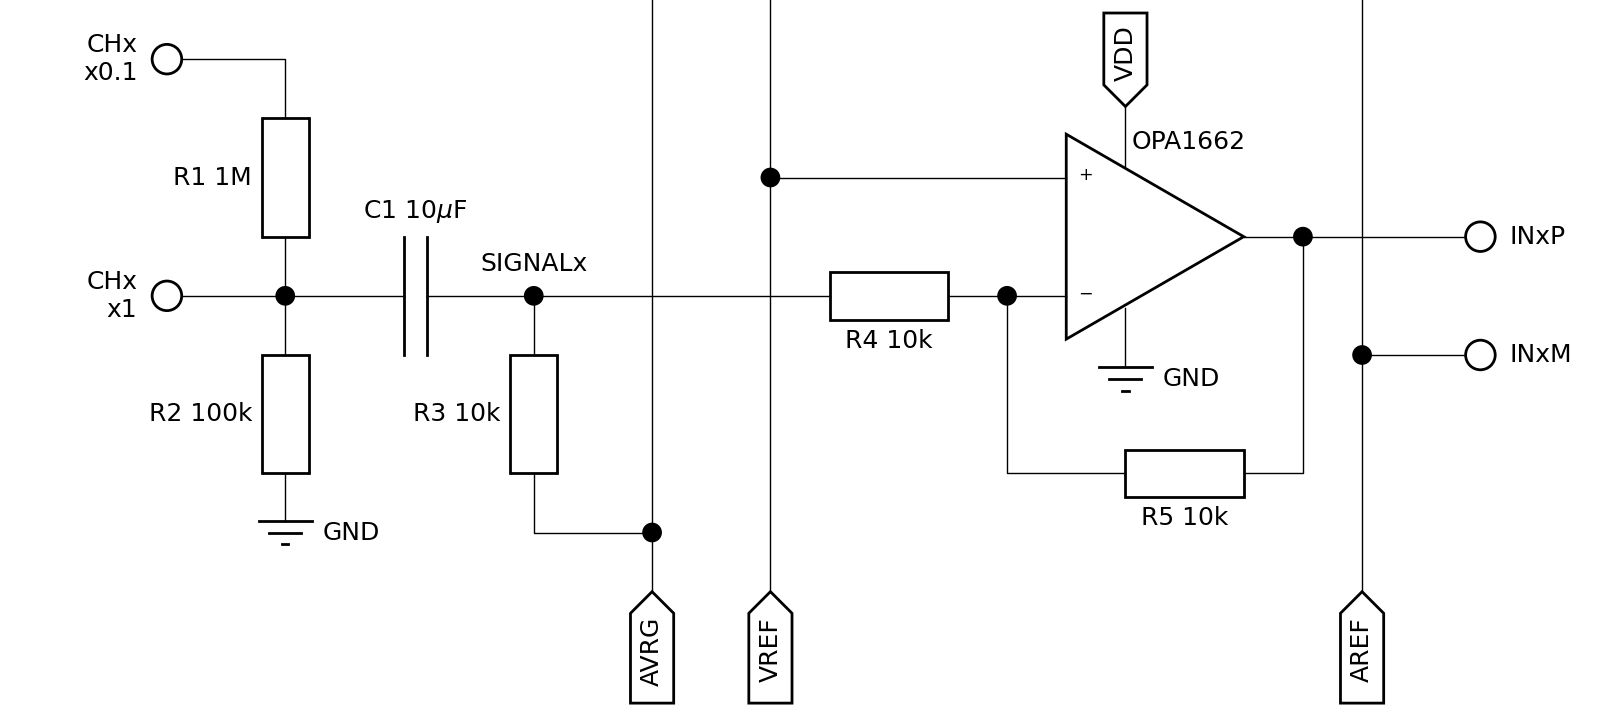
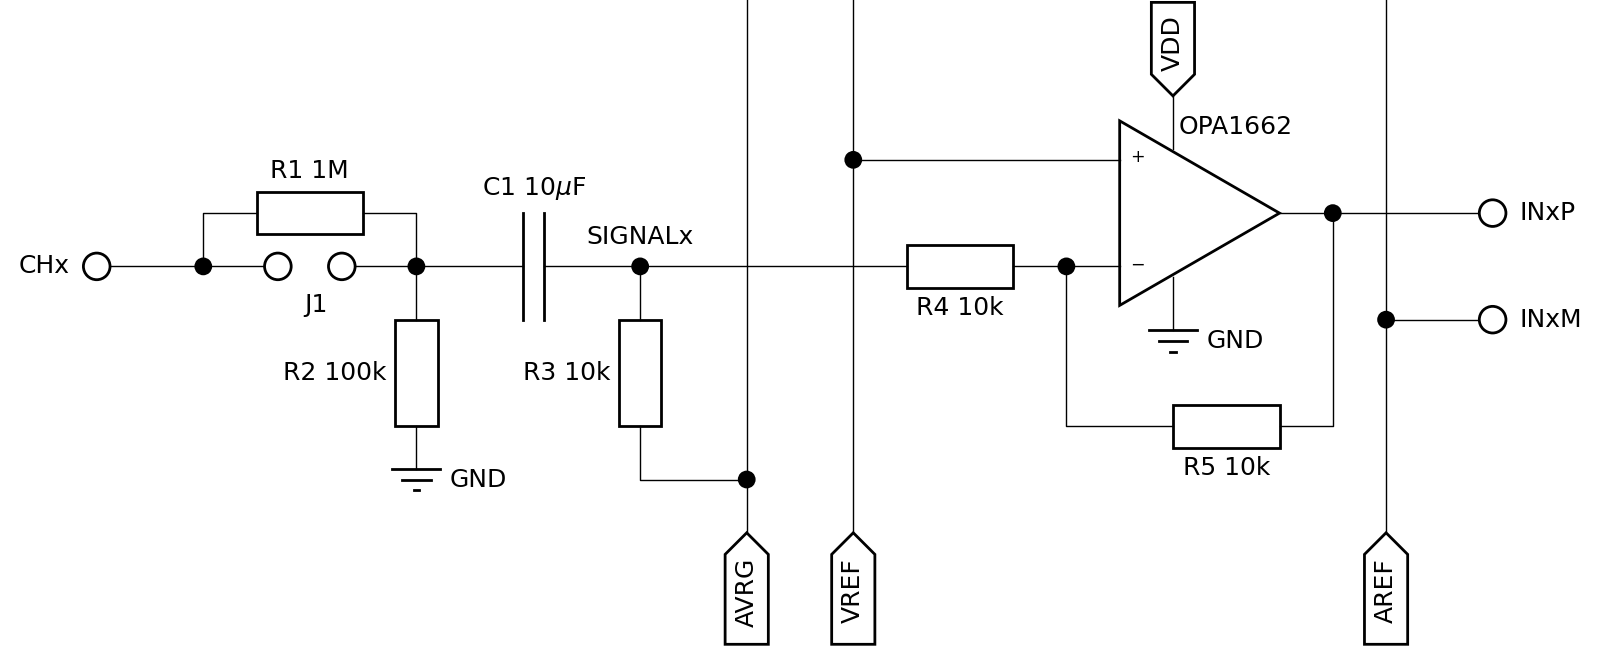
[R5.0] jumper for voltage divider

diff --git a/R5.0/preampinv.py b/R5.0/preampinv.py
@@ -4,14 +4,14 @@ from matplotlib.patches import Rectangle
 
 plt.rcParams['font.size'] = 18
 
-fig, ax = plt.subplots(figsize=(16, 7.1))
+fig, ax = plt.subplots(figsize=(16, 6.5))
 fig.subplots_adjust(nomargins=True)
 ax.show_spines('')
 #ax.set_xticks_off()
 #ax.set_yticks_off()
 
-ax.set_xlim(-1.5, 12)
-ax.set_ylim(1, 7)
+ax.set_xlim(-3, 12)
+ax.set_ylim(0.9, 7)
 ax.set_aspect('equal')
 
 pn, pp, po, pg, pw = ax.opamp_l((8, 5), 'OPA1662')
@@ -25,12 +25,14 @@ r4l, r4r = ax.resistance_h(ng1.left(1), 'R4 10k', align='bottom')
 ngr = ax.node(r4l.left(2.5), 'SIGNALx', 'north')
 c1l, c1r = ax.capacitance_h(ngr.left(1), 'C1 10$\\mu$F', align='top')
 nsc = ax.node(c1l.left(1))
-ns1 = ax.pin(nsc.left(1), 'CHx\nx1', align='left')
-ax.connect((ns1, nsc, c1l, None, c1r, r4l, None, r4r, ng1, pn))
+nj1 = ax.pin(nsc.left(0.7))
+nj2 = ax.pin(nj1.left(0.6), 'J1', 'southeast')
+nsj = ax.node(nj2.left(0.7))
+ns = ax.pin(nsj.left(1), 'CHx', align='left')
+ax.connect((ns, nsj, nj2, None, nj1, nsc, c1l, None, c1r, r4l, None, r4r, ng1, pn))
 
-r1b, r1t = ax.resistance_v(nsc.up(1), 'R1 1M', align='left')
-ns2 = ax.pin(r1t.up(0.5).left(1), 'CHx\nx0.1', align='left')
-ax.connect((nsc, r1b, None, r1t, ns2))
+r1l, r1r = ax.resistance_h(nsc.up(0.5).left(1), 'R1 1M', align='top')
+ax.connect((nsc, r1r, None, r1l, nsj))
 
 r3b, r3t = ax.resistance_v(ngr.down(1), 'R3 10k', align='left')
 nrc = ax.node(r3b.down(0.5).right(1))

diff --git a/R5.0/refampinv.py b/R5.0/refampinv.py
@@ -4,14 +4,14 @@ from matplotlib.patches import Rectangle
 
 plt.rcParams['font.size'] = 18
 
-fig, ax = plt.subplots(figsize=(16, 6))
+fig, ax = plt.subplots(figsize=(16, 5.6))
 fig.subplots_adjust(nomargins=True)
 ax.show_spines('')
 #ax.set_xticks_off()
 #ax.set_yticks_off()
 
-ax.set_xlim(-1.5, 12)
-ax.set_ylim(2.5, 7.5)
+ax.set_xlim(-3, 12)
+ax.set_ylim(2.4, 7.6)
 ax.set_aspect('equal')
 
 pn, pp, po, pg, pw = ax.opamp_l((8, 5), 'OPA1662')

diff --git a/R5.0/README.md b/R5.0/README.md
@@ -87,7 +87,6 @@ Teensy pins:
 - Add I2C pins for sensors
 
 
-
 ### Programming instructions
 
 For programming instructions see page 109 of the [TI TLV320ADC5140 data sheet](tlv320adc5140.pdf).
@@ -96,6 +95,7 @@ For programming instructions see page 109 of the [TI TLV320ADC5140 data sheet](t
 ### Pre-amplifiers
 
 - R1=1M for a voltage divider attenuating strong signals by a factor of 10.
+- J1 short circuits voltage divider for x1 input signals (as 4x2 jumper pins).
 - R2=100k for referencing the floating signal.
 - C1=10uF decoupling capacitor.
 - R4=10k and R5=10k set the gain.
